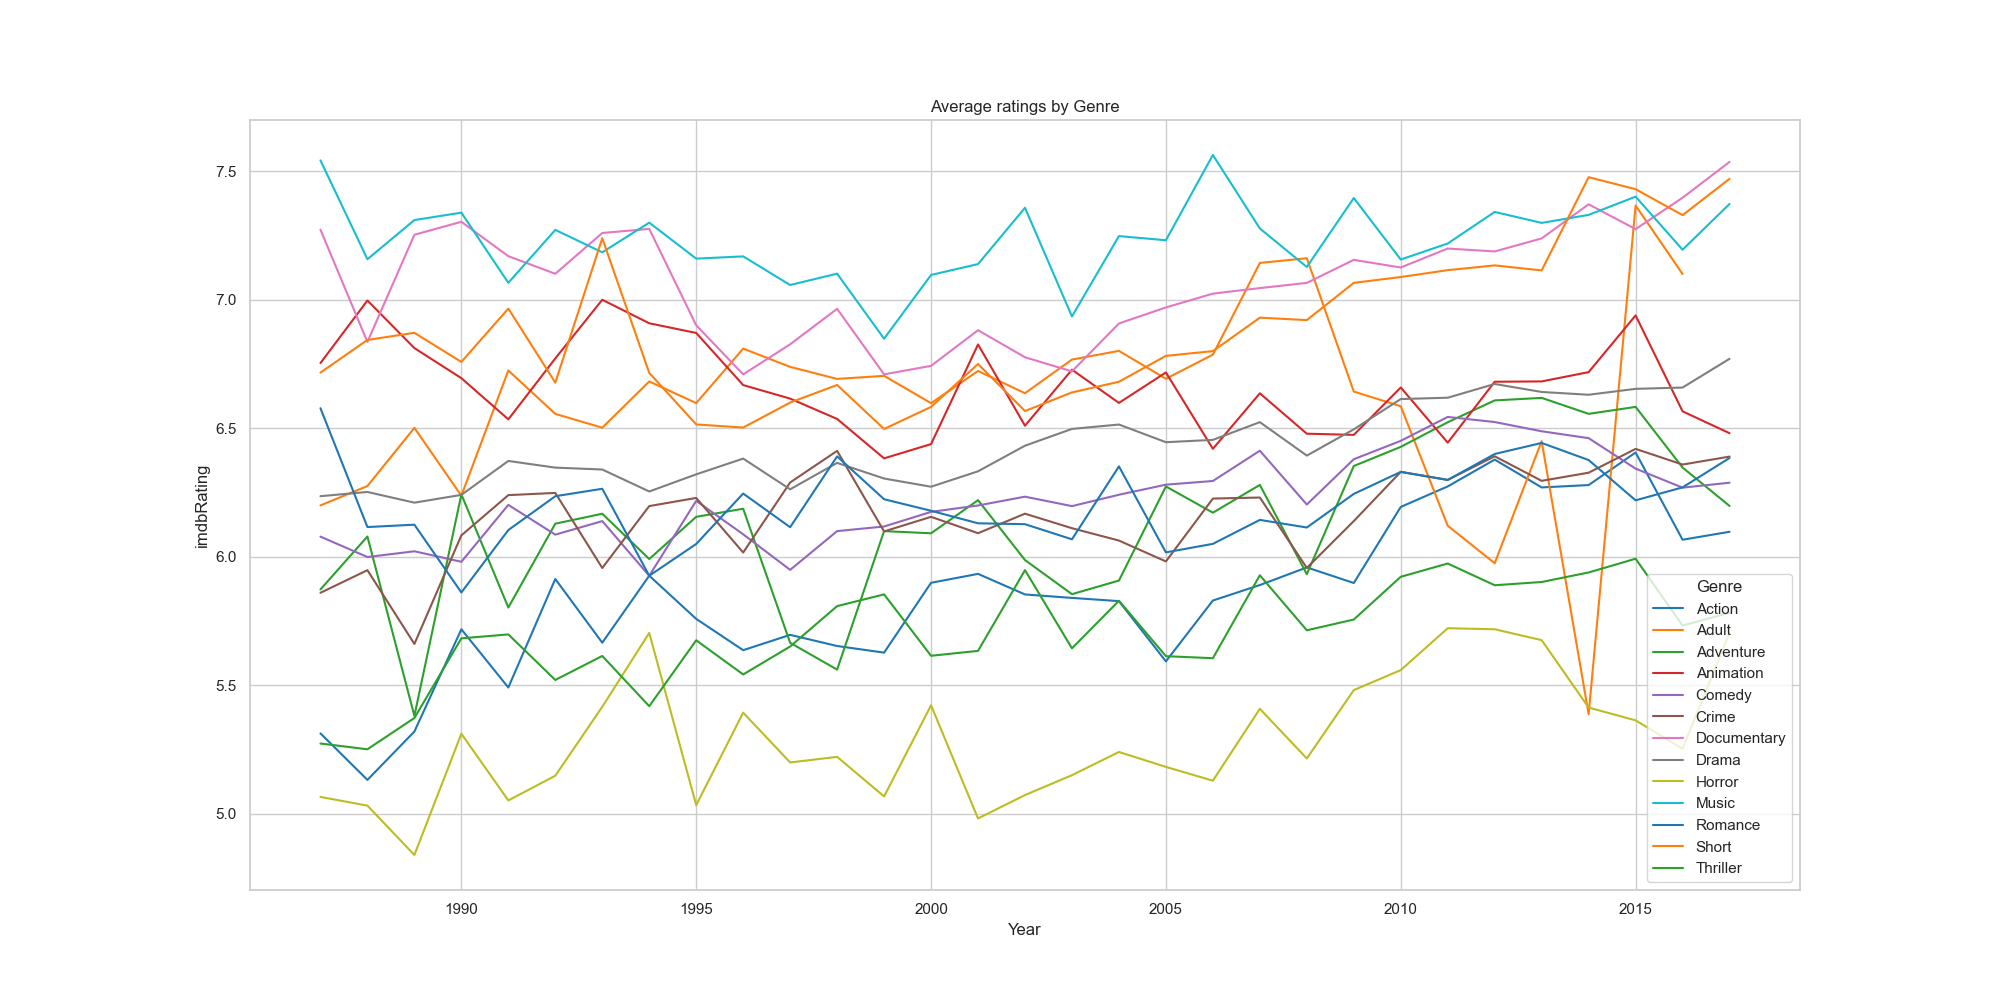
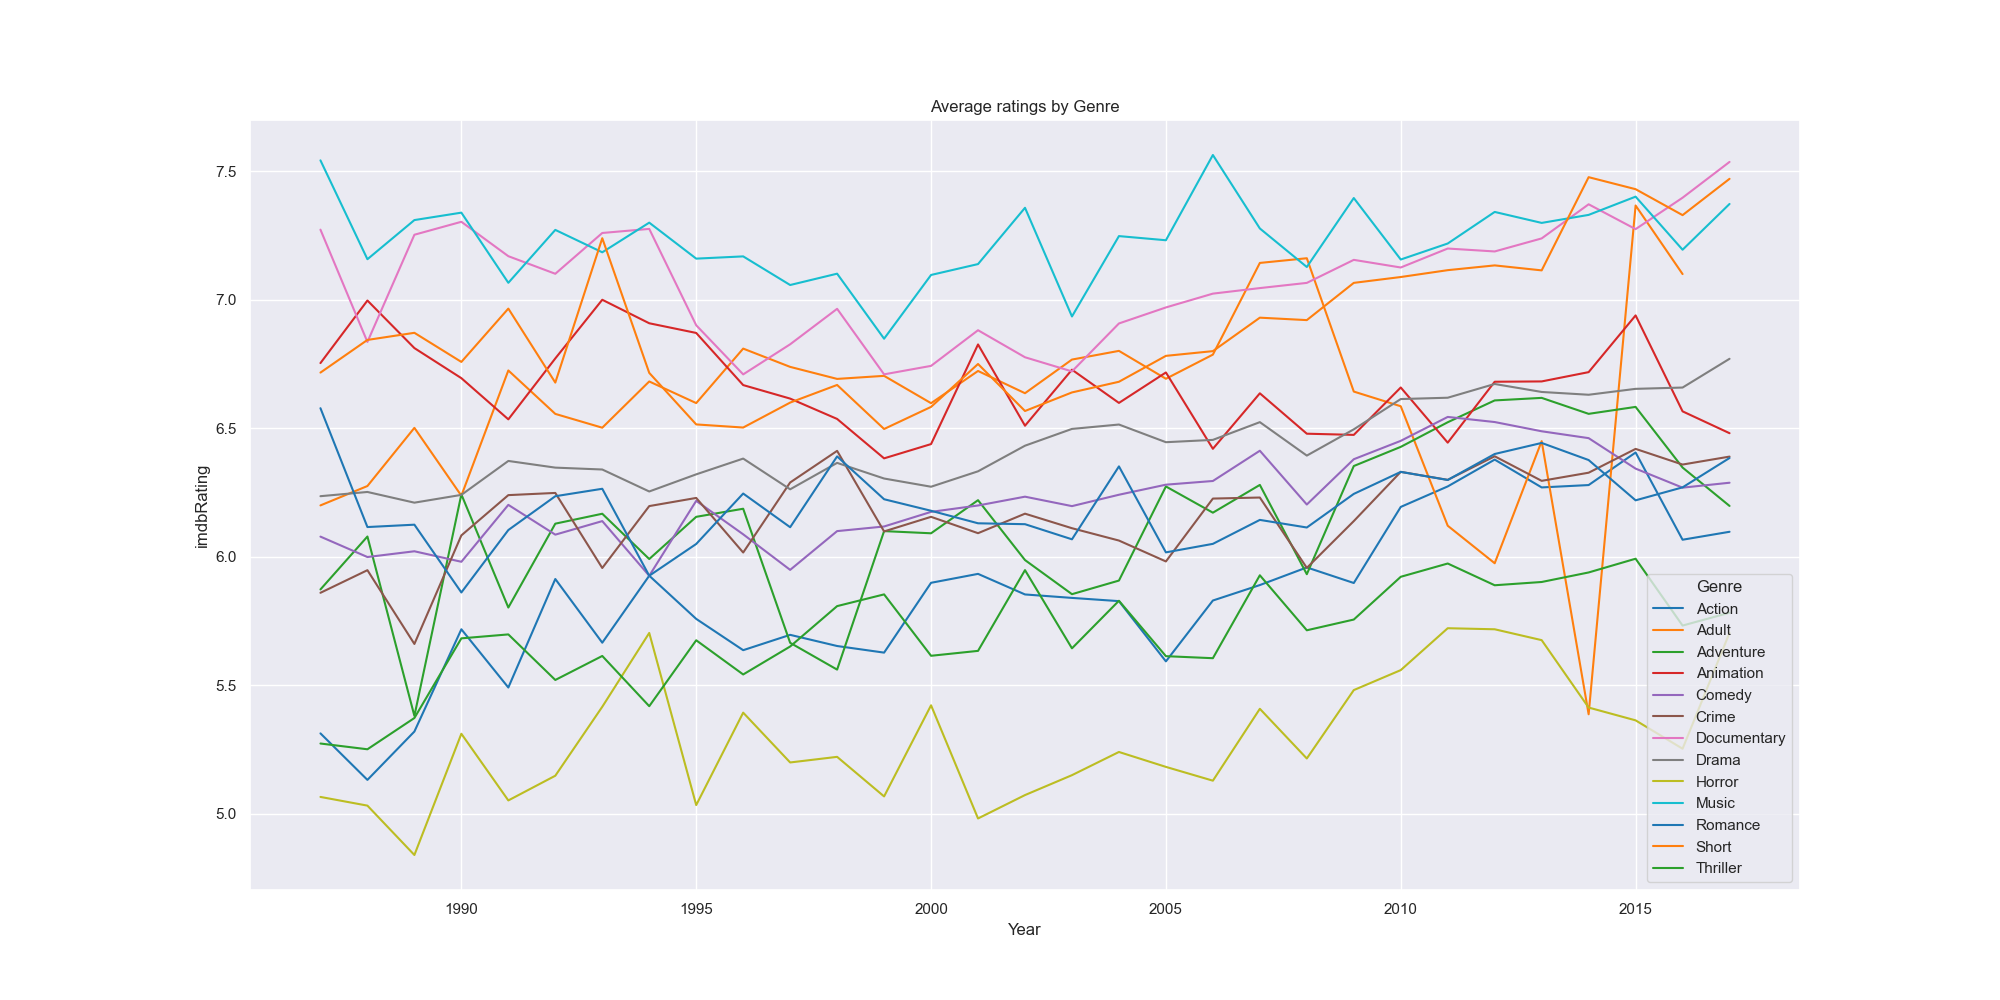
Added seaborn_plot function

diff --git a/Movie-Genres.py b/Movie-Genres.py
@@ -7,6 +7,12 @@ import pandas as pd
 import matplotlib.pyplot as plt
 import seaborn as sns
 
+# Function to set seaborn plt area
+def seaborn_plot():
+    fig, ax = plt.subplots()
+    fig.set_size_inches(20, 10)
+    sns.set_theme(style="darkgrid")
+
 # import files to be used for analysis
 
 genres = pd.read_csv("/Users/rosepower/Desktop/UCD Data Analytics Course/Project/Data sets/Movie_Genres.csv")
@@ -224,9 +230,7 @@ movies_genres_by_year = rated_movies_analysis_30years.groupby(['Year','Genre']).
 print(movies_genres_by_year)
 
 # Plot movies_genres_by_year
-fig, ax = plt.subplots()
-fig.set_size_inches (20,10)
-sns.set_theme(style="whitegrid")
+seaborn_plot()
 sns.lineplot(data=movies_genres_by_year, x="Year", y='imdbID', hue='Genre', palette='tab10')
 plt.title("Number of rated movies by Genre")
 plt.savefig('Seaborn_plot_genre_by_year.png')
@@ -237,10 +241,15 @@ movies_genres_rating_by_year = rated_movies_analysis_30years.groupby(['Year','Ge
 print(movies_genres_rating_by_year)
 
 # Plot movies_genres_rating_by_year
-fig, ax = plt.subplots()
-fig.set_size_inches (20,10)
-sns.set_theme(style="whitegrid")
+seaborn_plot()
 sns.lineplot(data=movies_genres_rating_by_year, x="Year", y='imdbRating', hue='Genre', palette='tab10')
 plt.title("Average ratings by Genre")
 plt.savefig('Seaborn_plot_genre_rating_by_year.png')
+plt.show()
+
+# Create a box plot to show imdbRating to show the distribution of ratings across the genres
+seaborn_plot()
+sns.boxplot(data=rated_movies_analysis_30years, x="Genre", y='imdbRating')
+plt.title("Movie ratings by Genre")
+plt.savefig('Seaborn_movie_rating_by_genre.png')
 plt.show()
